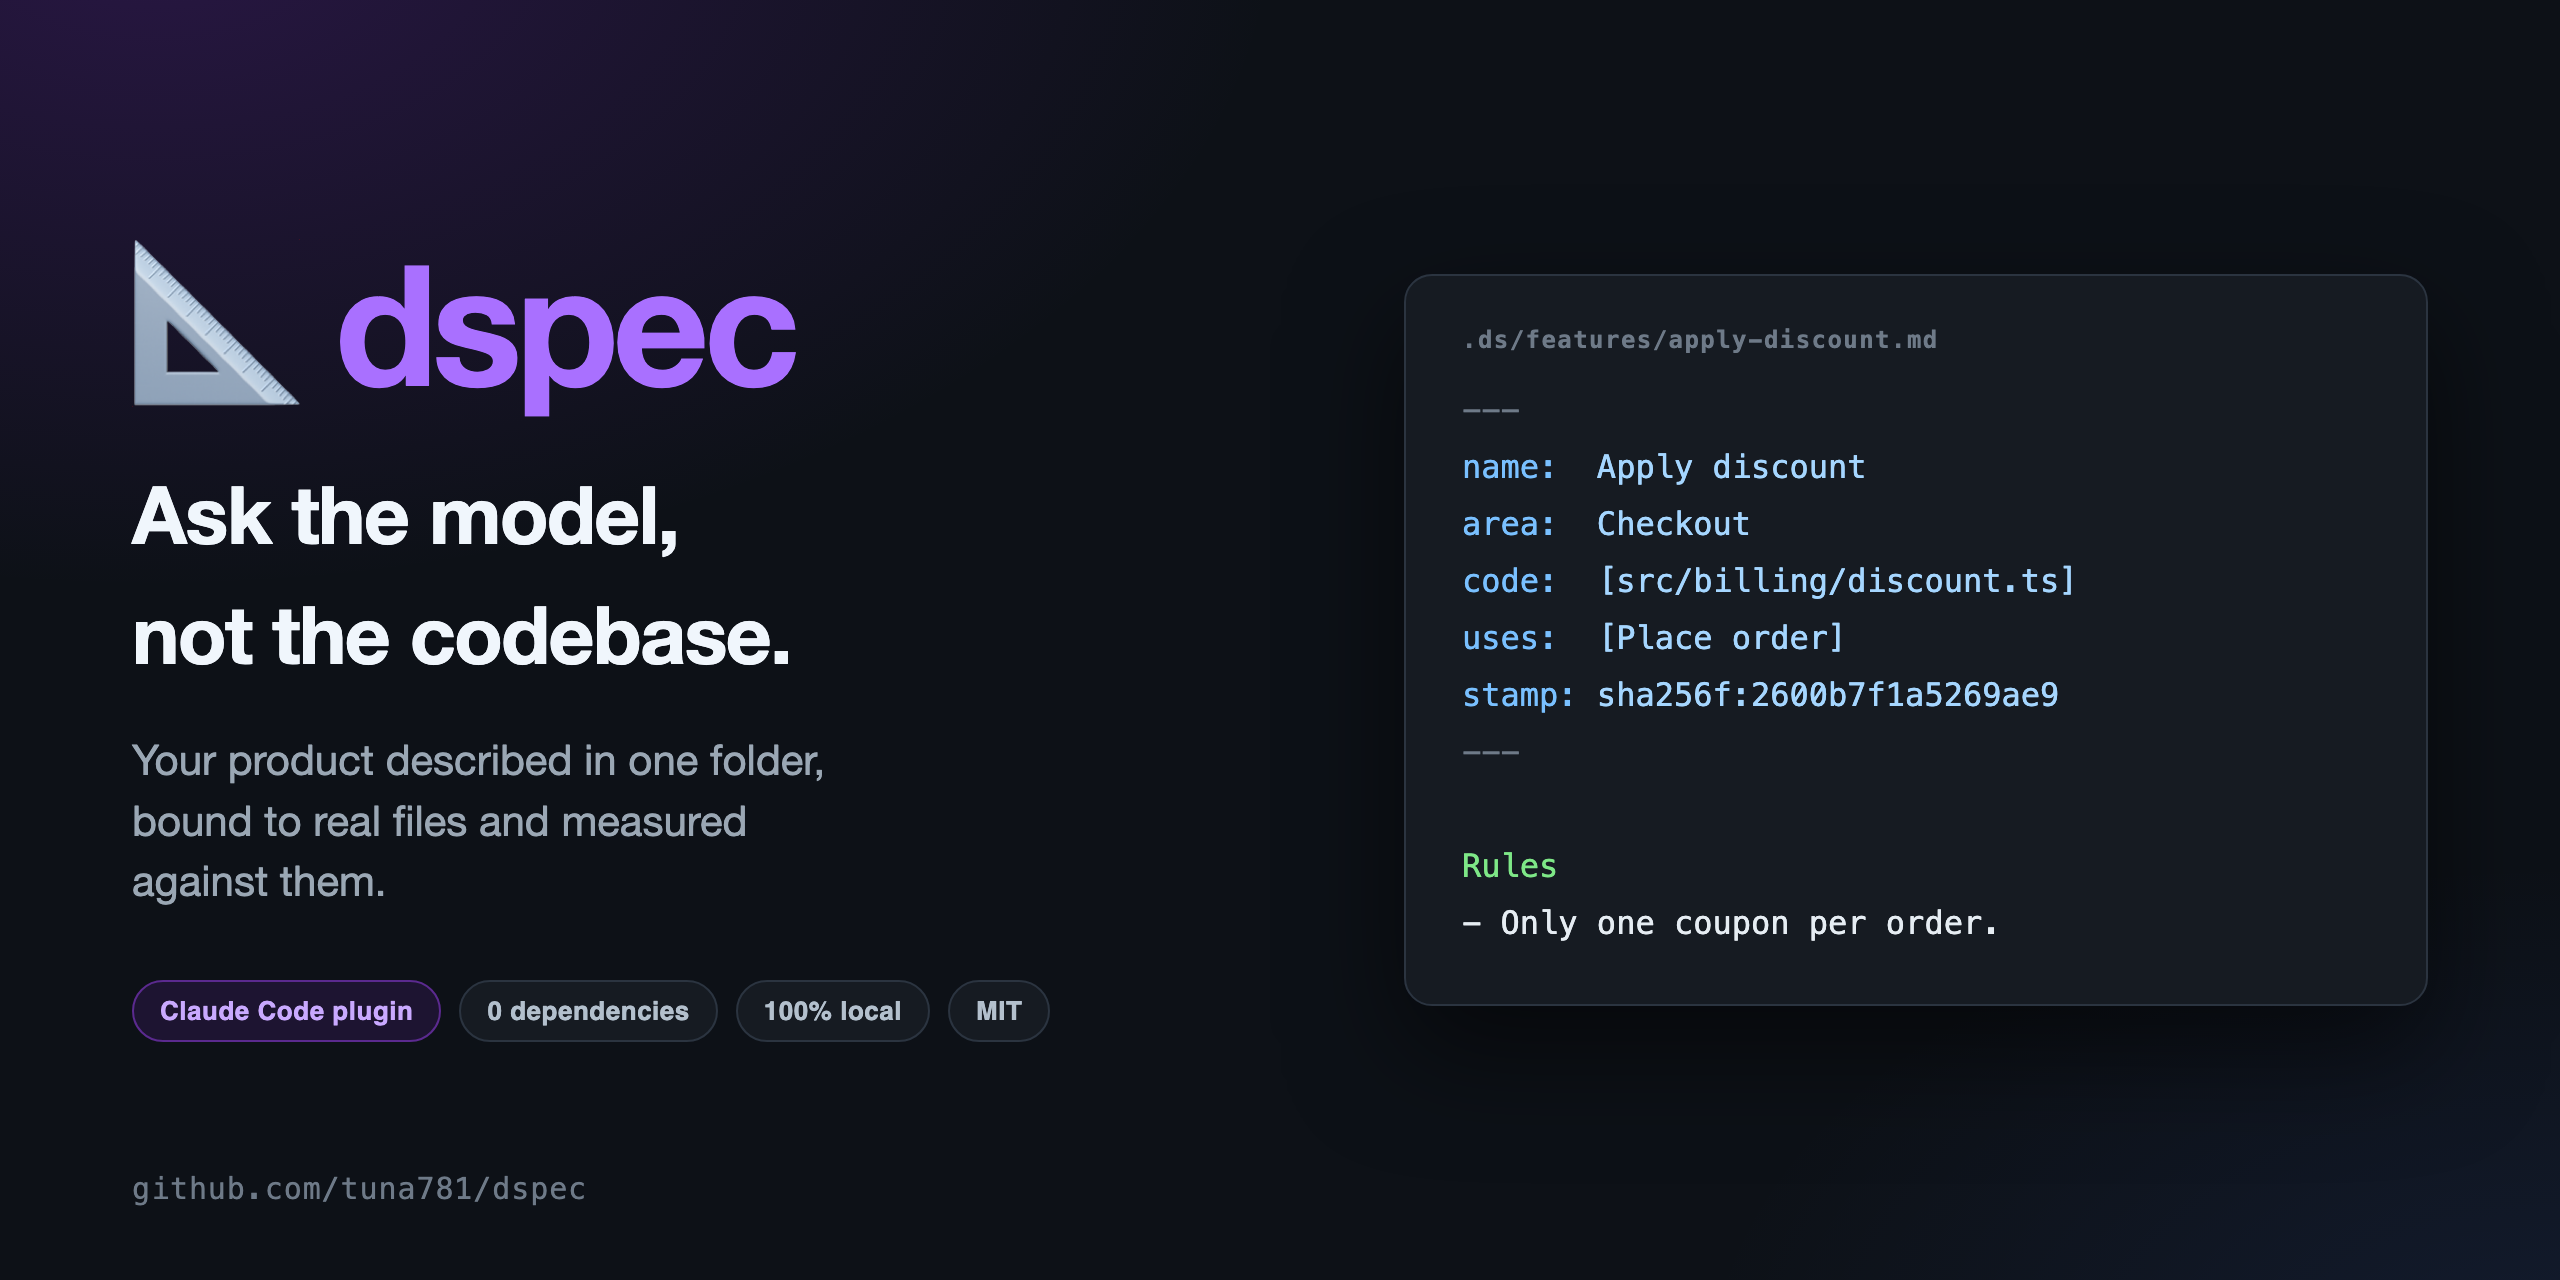
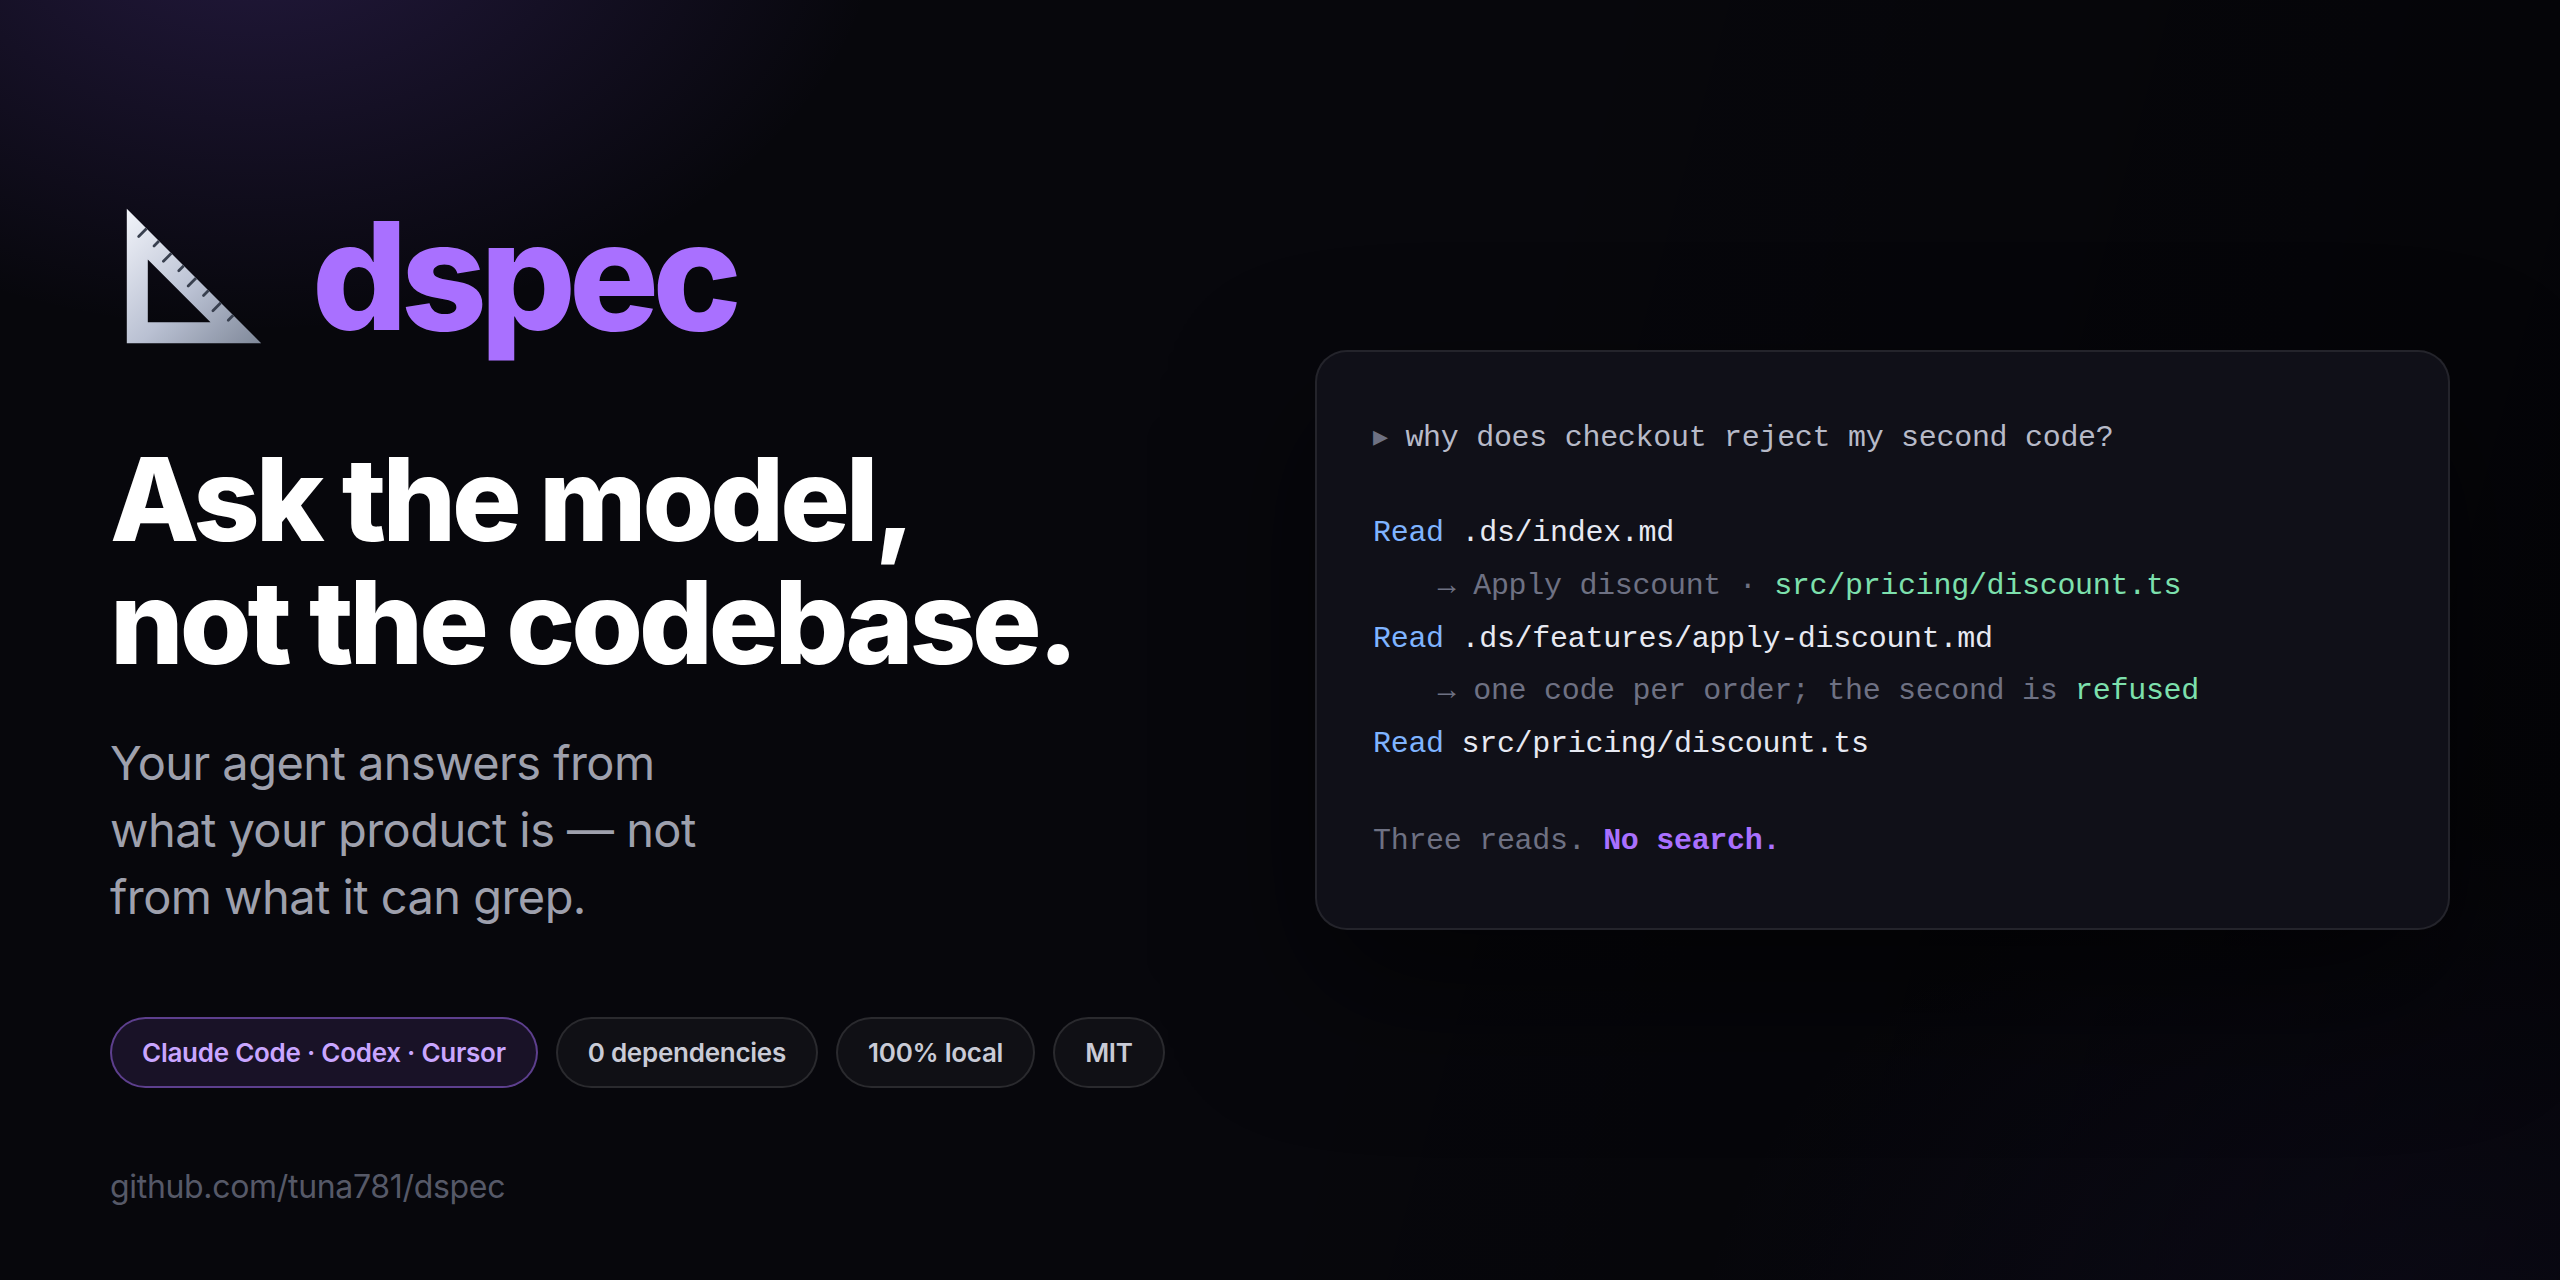
Replace the card that still advertised 0.1.x
The PNG GitHub serves beside About is now a render of the HTML committed
alongside it, so the plugin badge, the `stamp:` fingerprint and the specs
"measured against" the code are finally off the surface people see first.

Three fixes the render exposed that reading the file did not:

- The mark drew as a solid wedge. The inner triangle was not an inset of
  the outer one, so the hole was the wrong shape, and `clip-path` sat on
  the same element as `rotate(45)` — a clipPath is applied in the user
  space of the element that references it, so the clip rotated with the
  ticks and cut every one of them away. The clip now sits on an outer
  group, and the hole is a true 30-unit inset of all three edges.
- The pill row wrapped, stranding MIT on a line of its own.
- The panel wrapped mid-sentence, which read as prose rather than as
  three reads. Shorter lines, smaller type.

Inter moved to the front of the font stack. `ui-sans-serif` resolves to
DejaVu on a bare Linux box, which renders the wordmark at a synthesised
weight; anywhere without Inter the stack still falls through to the
platform UI font.

diff --git a/.github/social-preview.html b/.github/social-preview.html
@@ -16,7 +16,7 @@
   html, body { width: 2560px; height: 1280px; overflow: hidden; }
   body {
     background: #07070c;
-    font-family: ui-sans-serif, -apple-system, "Segoe UI", Inter, Helvetica, Arial, sans-serif;
+    font-family: Inter, ui-sans-serif, -apple-system, "Segoe UI", Helvetica, Arial, sans-serif;
     -webkit-font-smoothing: antialiased;
   }
 
@@ -26,8 +26,8 @@
     display: grid;
     grid-template-columns: 1fr 1fr;
     align-items: center;
-    gap: 80px;
-    padding: 0 130px;
+    gap: 70px;
+    padding: 0 110px;
     background:
       radial-gradient(900px 620px at 10% -8%, rgba(139, 92, 246, .22), transparent 70%),
       radial-gradient(1100px 800px at 96% 108%, rgba(76, 60, 160, .16), transparent 70%),
@@ -56,10 +56,10 @@
     color: #9ea0ad; max-width: 21ch;
   }
 
-  .pills { display: flex; flex-wrap: wrap; gap: 20px; margin-top: 86px; }
+  .pills { display: flex; flex-wrap: nowrap; gap: 18px; margin-top: 86px; }
   .pill {
-    font-size: 30px; font-weight: 600; letter-spacing: -.01em;
-    padding: 20px 34px; border-radius: 999px;
+    font-size: 26px; font-weight: 600; letter-spacing: -.01em; white-space: nowrap;
+    padding: 18px 30px; border-radius: 999px;
     color: #c9cbd6; background: rgba(255, 255, 255, .035);
     border: 2px solid rgba(255, 255, 255, .11);
   }
@@ -69,7 +69,7 @@
   }
 
   .repo {
-    position: absolute; left: 130px; bottom: 74px;
+    position: absolute; left: 110px; bottom: 74px;
     font-size: 32px; letter-spacing: -.01em; color: #565968;
   }
 
@@ -79,10 +79,10 @@
     background: #101018;
     border: 2px solid rgba(255, 255, 255, .085);
     border-radius: 32px;
-    padding: 64px 62px;
+    padding: 60px 56px;
     box-shadow: 0 60px 140px rgba(0, 0, 0, .55);
     font-family: ui-monospace, SFMono-Regular, "SF Mono", Menlo, Consolas, monospace;
-    font-size: 35px; line-height: 1.78; letter-spacing: -.01em;
+    font-size: 30px; line-height: 1.76; letter-spacing: -.01em;
     color: #d7d9e3;
   }
   .ask { color: #6e7183; margin-bottom: 42px; }
@@ -109,18 +109,23 @@
             <path d="M24 24 L24 216 L216 216 Z"/>
           </clipPath>
         </defs>
-        <path d="M24 24 L24 216 L216 216 Z M24 128 L24 192 L88 192 Z"
+        <!-- outer triangle with a 30-unit hole: each inner edge is inset by 30 from its outer
+             counterpart, the hypotenuse by 30*sqrt(2) along y since it lies on y = x -->
+        <path d="M24 24 L24 216 L216 216 Z M54 96.4 L54 186 L143.6 186 Z"
               fill="url(#steel)" fill-rule="evenodd"/>
-        <g clip-path="url(#tri)" transform="rotate(45 24 24)"
-           stroke="#3a4152" stroke-width="4" stroke-linecap="round">
-          <line x1="52" y1="24" x2="52" y2="42"/>
-          <line x1="80" y1="24" x2="80" y2="36"/>
-          <line x1="108" y1="24" x2="108" y2="42"/>
-          <line x1="136" y1="24" x2="136" y2="36"/>
-          <line x1="164" y1="24" x2="164" y2="42"/>
-          <line x1="192" y1="24" x2="192" y2="36"/>
-          <line x1="220" y1="24" x2="220" y2="42"/>
-          <line x1="248" y1="24" x2="248" y2="36"/>
+        <!-- ruler ticks along the hypotenuse. The clip must sit on an OUTER group: on the same
+             element as the rotation it is rotated too, which clipped every tick away. -->
+        <g clip-path="url(#tri)">
+          <g transform="rotate(45 24 24)" stroke="#39404f" stroke-width="4" stroke-linecap="round">
+            <line x1="64" y1="24" x2="64" y2="40"/>
+            <line x1="89" y1="24" x2="89" y2="34"/>
+            <line x1="114" y1="24" x2="114" y2="40"/>
+            <line x1="139" y1="24" x2="139" y2="34"/>
+            <line x1="164" y1="24" x2="164" y2="40"/>
+            <line x1="189" y1="24" x2="189" y2="34"/>
+            <line x1="214" y1="24" x2="214" y2="40"/>
+            <line x1="239" y1="24" x2="239" y2="34"/>
+          </g>
         </g>
       </svg>
       <span class="wordmark">dspec</span>
@@ -138,11 +143,11 @@
   </div>
 
   <div class="panel">
-    <div class="ask">▸ <em>why does checkout reject my second discount code?</em></div>
+    <div class="ask">▸ <em>why does checkout reject my second code?</em></div>
     <div><span class="read">Read</span> <span class="path">.ds/index.md</span></div>
     <div class="found">→ Apply discount · <b>src/pricing/discount.ts</b></div>
     <div><span class="read">Read</span> <span class="path">.ds/features/apply-discount.md</span></div>
-    <div class="found">→ one code per order — the second is <b>refused, not stacked</b></div>
+    <div class="found">→ one code per order; the second is <b>refused</b></div>
     <div><span class="read">Read</span> <span class="path">src/pricing/discount.ts</span></div>
     <div class="note">Three reads. <b>No search.</b></div>
   </div>
